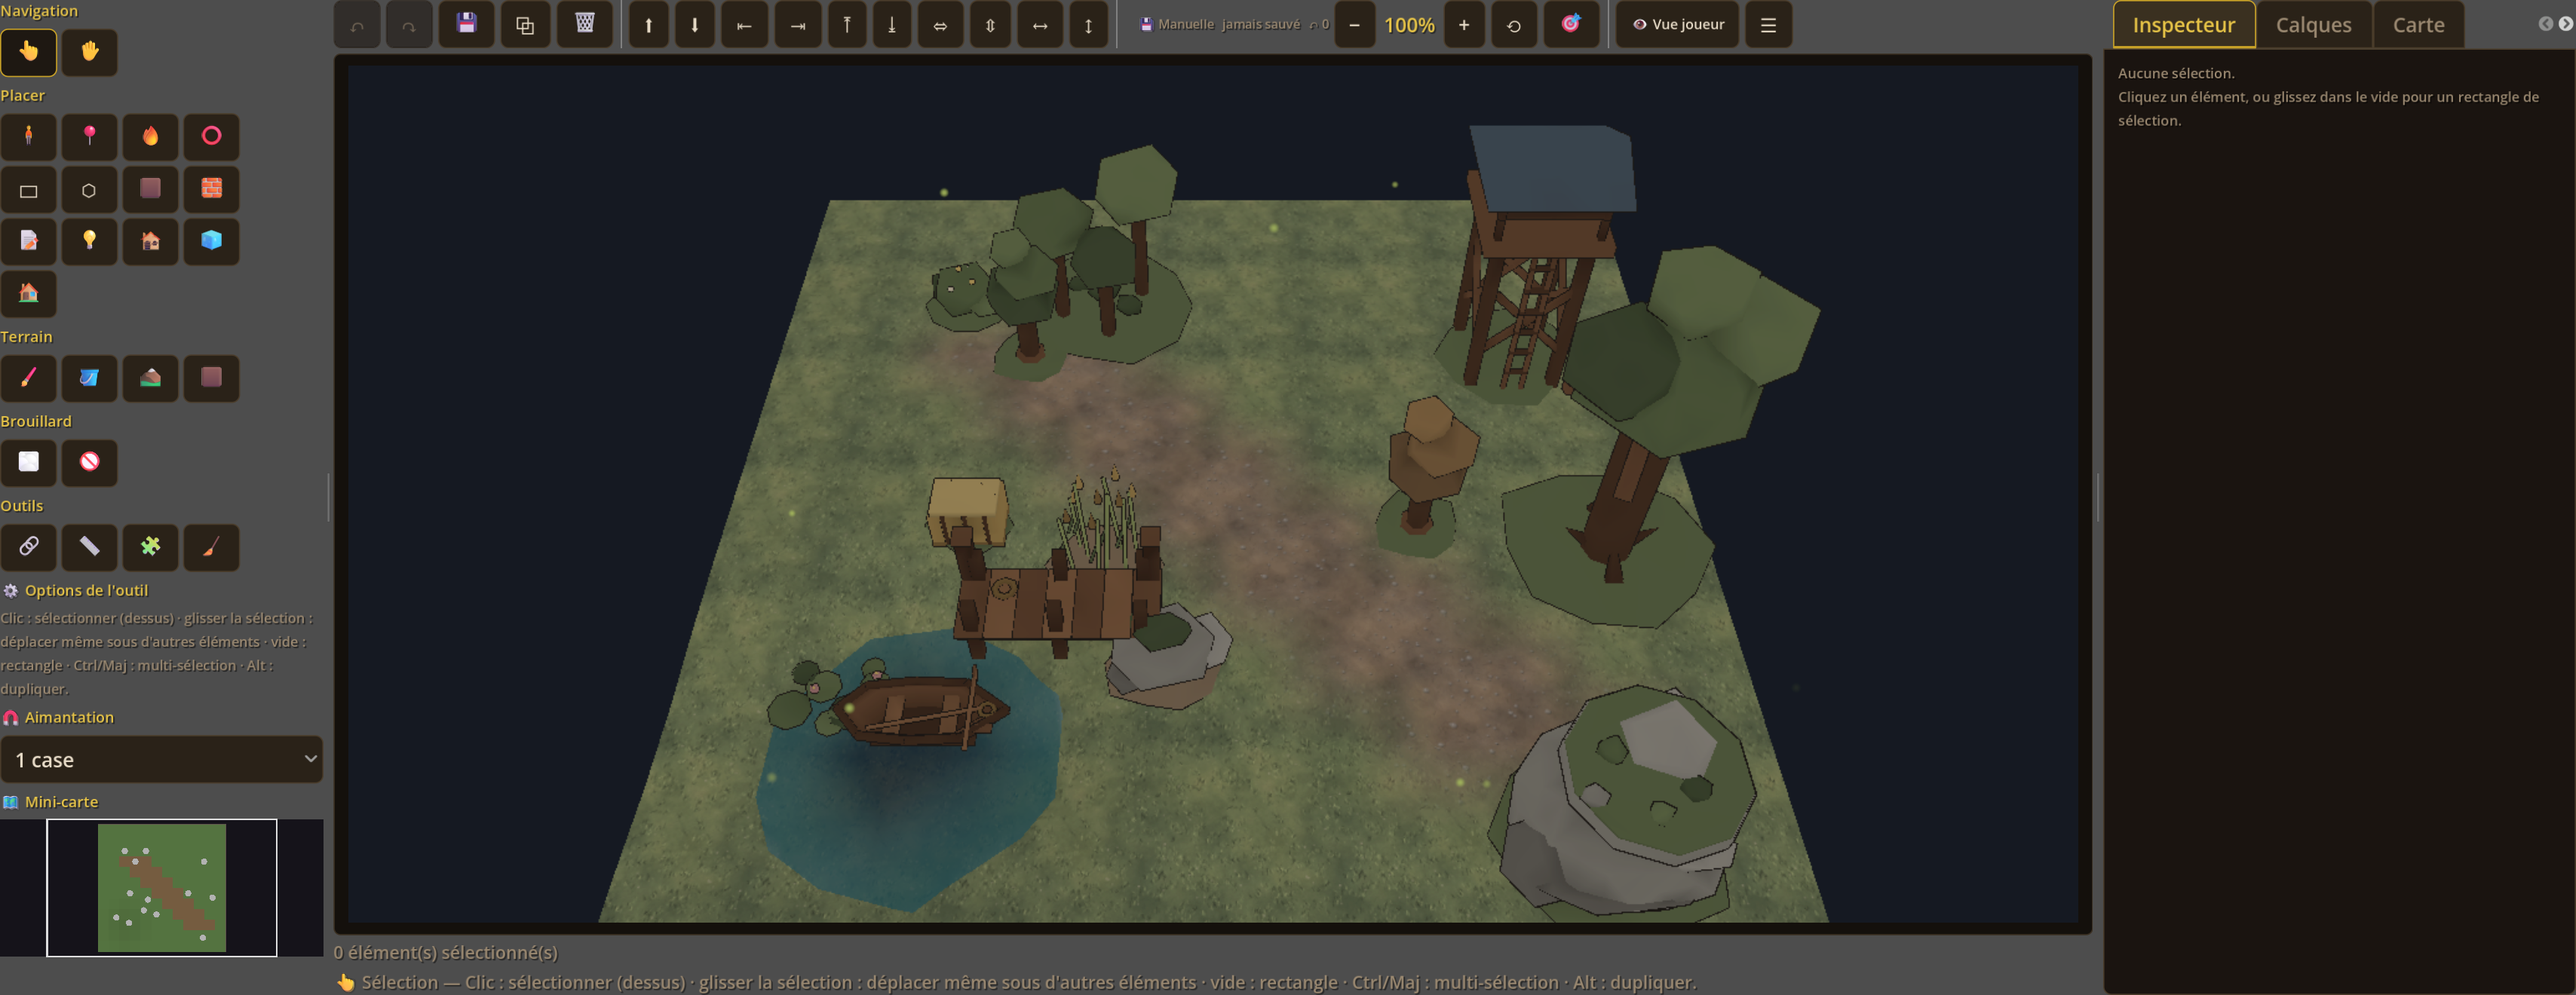
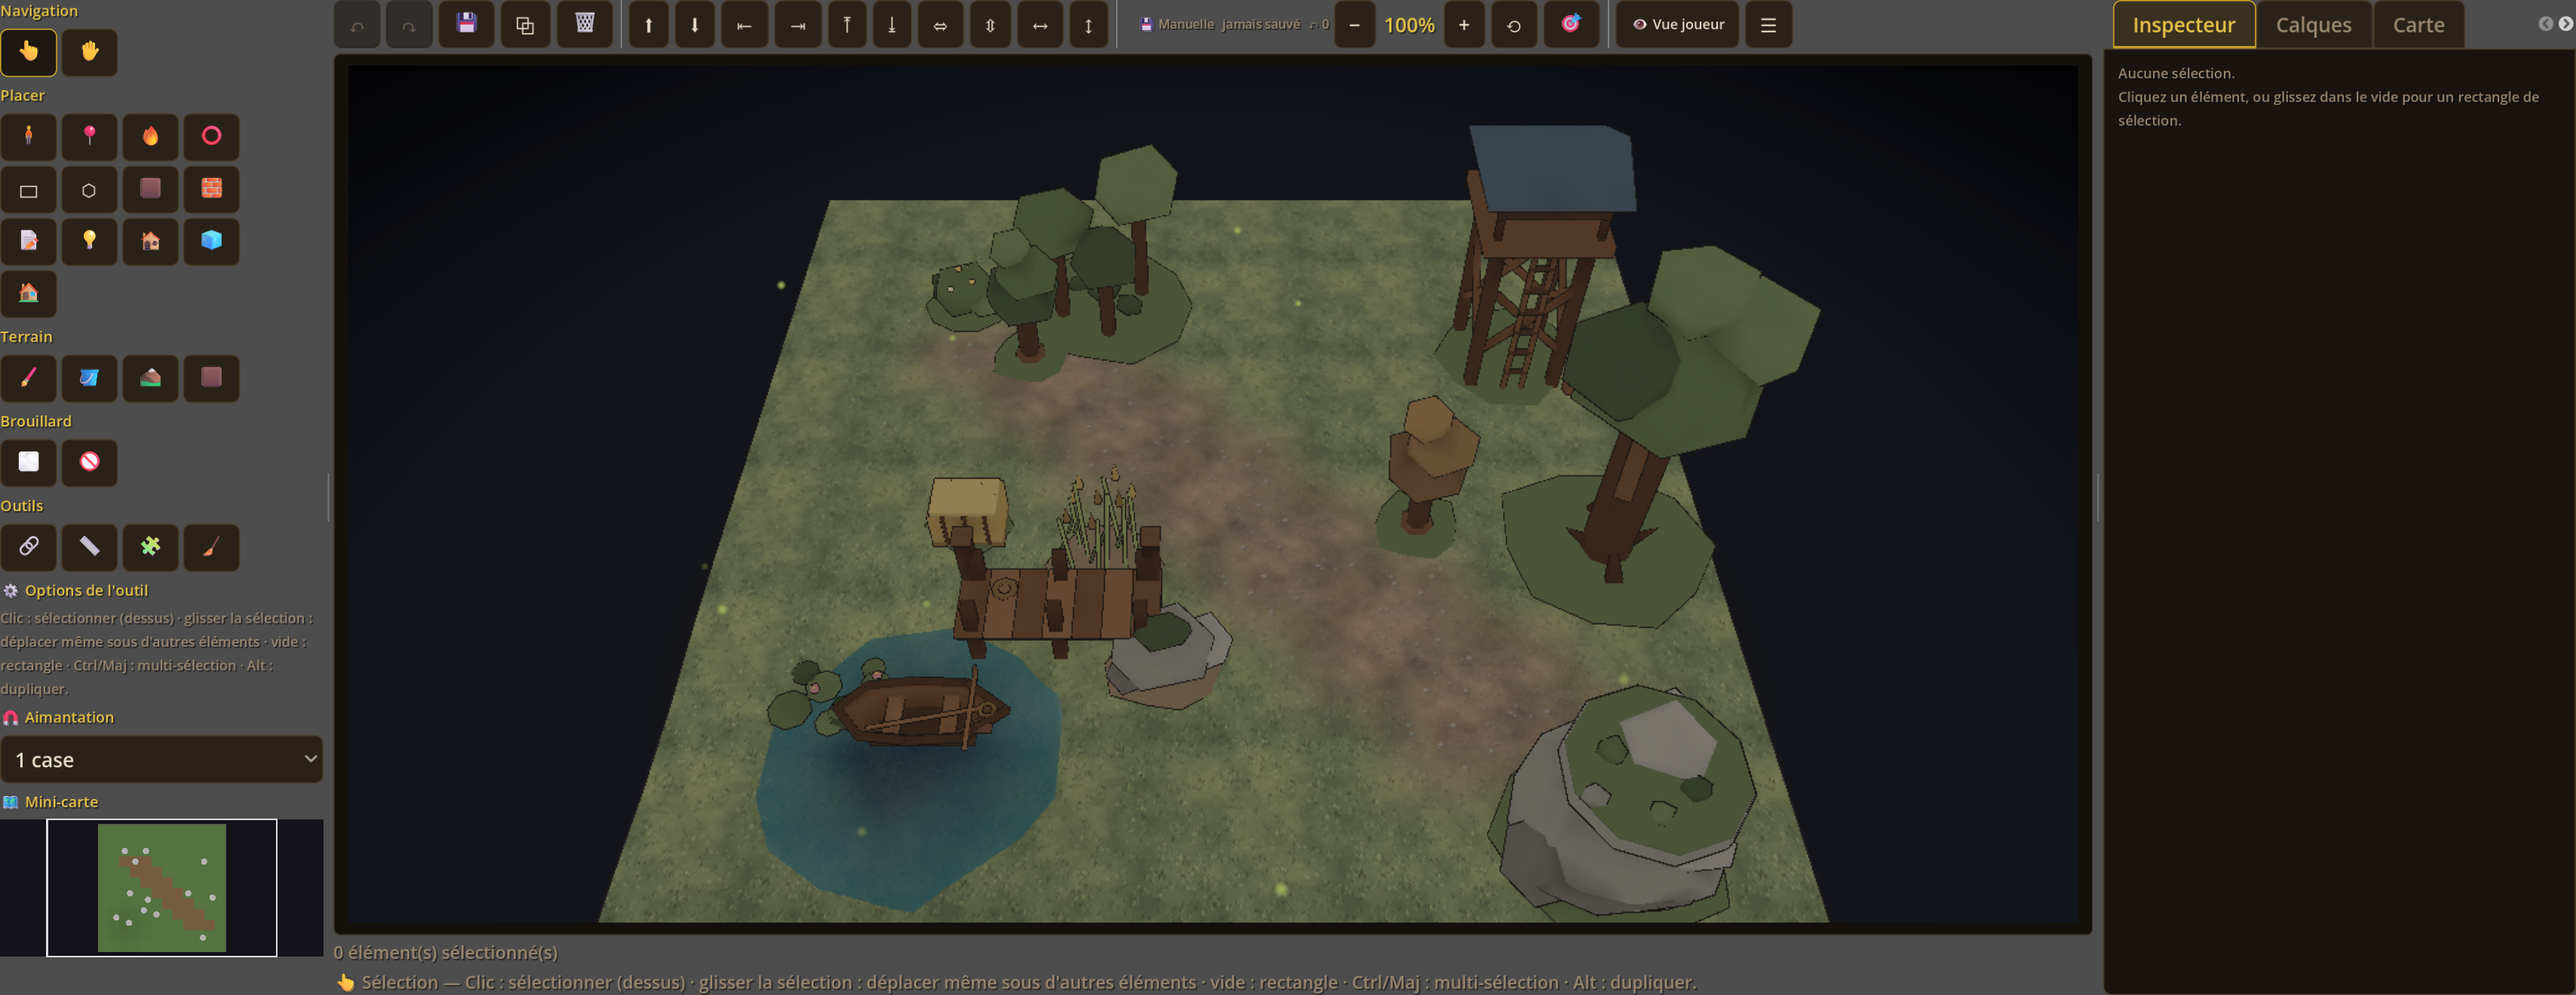
feat(carte 2.5d): ambiances meteo pluie et neige
- MapAmbientFx3D: rain (gouttes etirees rapides) et snow (flocons lents avec turbulence), nuit teintee
- éditeur Carte -> Ambiance: entrees Pluie et Neige ; ruines de la demo sous la pluie
- test map_ambient_fx_test etendu ; captures et docs a jour

Changed region(s): [[0.1241, 0.0621, 0.2172, 0.1553], [0.7447, 0.0621, 0.8068, 0.1553]]

diff --git a/docs/CARTE_25D.md b/docs/CARTE_25D.md
@@ -68,7 +68,7 @@ Le socle est donc **déjà à 70 %** de la cible : il manque principalement le *
 | **M5** | Démo | une carte village 2.5D mêlant sol peint, props 2D et objets 3D, livrée comme carte de démo et scène de test éditeur | capture + smoke |
 | **M6** | **Adaptation au terrain** | relief peint par cases (hauteur), objets 3D posés au sol réel : base sur la hauteur du terrain et inclinaison selon la pente (façon Rust / Fallout 76), ombre de contact qui suit | test relief + capture |
 
-**État au 31 octobre** : **M1→M4 livrés** — type `mesh`, outil éditeur, import GLB utilisateur, style **Carte 2.5D par défaut**, pipeline Blender. **M6 livré** : relief par cases, vrai sol 3D simple (heightfield), **jupe de falaise** sur le pourtour des cartes (effet plateau/îlot façon Dofus), **fond de plateau dégradé** derrière la carte, **peinture de matières du sol** (herbe / terre / pierre, outil `Y`, mélange doux), **plans d'eau animés** (niveau d'eau dans l'onglet Carte → étangs/lacs avec profondeur et écume), **ambiances animées** (lucioles, poussière, feuilles ; réglage Carte → Ambiance) et objets adaptés au sol. **Monde de zones (Dofus)** : `WorldZones`, **onglet Monde**, **transitions de session**, **carte du monde en session (M)** avec découverte et voyage rapide. **Art v2→v7** : **80 objets 3D** (villages variés : chapelle, forge, grange, écurie, maison à étage, manoir, tour de guet, marché couvert ; intérieurs taverne/donjon ; décors ; **10 figurines de personnages et créatures** ; environnement : falaise, arbre majestueux, bosquet, haie, roseaux, ponton, barque, nénuphars, bannière, clôture, tas de bois ; **modules de toits et façades** : 2 pentes, croupe, appentis, clocheton, chaume, cheminée, colombage, porte, fenêtre, balcon, escalier, auvent), 3 textures de sol seamless, éclairage 2.5D, lueur des lanternes. **Démo** : **7 zones reliées** (village, place, forêt, taverne, donjon nocturne, camp des bûcherons, ruines) avec chemins peints, intérieurs meublés, PNJ, étang en forêt et ambiances animées. **Tokens** : en carte 2.5D, les membres sans portrait sont rendus en **figurines 3D choisies par classe** (aventurier, archère, mage, voleuse, prêtresse, garde, marchand, villageoise + gobelin/squelette) avec socle coloré, ombre et sélection. Reste : passe de qualité artistique finale (toits, transitions). Voir [MONDE_ZONES.md](./MONDE_ZONES.md). Captures : [`carte_25d_editeur.png`](./screenshots/carte_25d_editeur.png), [`carte_25d_monde.png`](./screenshots/carte_25d_monde.png), [`carte_25d_mesh_demo.png`](./screenshots/carte_25d_mesh_demo.png), [`carte_25d_etang.png`](./screenshots/carte_25d_etang.png), [`carte_25d_falaise.png`](./screenshots/carte_25d_falaise.png), [`carte_25d_taverne.png`](./screenshots/carte_25d_taverne.png), [`carte_25d_donjon.png`](./screenshots/carte_25d_donjon.png), [`carte_25d_figurines.png`](./screenshots/carte_25d_figurines.png), [`session_carte_monde.png`](./screenshots/session_carte_monde.png).
+**État au 31 octobre** : **M1→M4 livrés** — type `mesh`, outil éditeur, import GLB utilisateur, style **Carte 2.5D par défaut**, pipeline Blender. **M6 livré** : relief par cases, vrai sol 3D simple (heightfield), **jupe de falaise** sur le pourtour des cartes (effet plateau/îlot façon Dofus), **fond de plateau dégradé** derrière la carte, **peinture de matières du sol** (herbe / terre / pierre, outil `Y`, mélange doux), **plans d'eau animés** (niveau d'eau dans l'onglet Carte → étangs/lacs avec profondeur et écume), **ambiances animées** (lucioles, poussière, feuilles, **pluie**, **neige** ; réglage Carte → Ambiance) et objets adaptés au sol. **Monde de zones (Dofus)** : `WorldZones`, **onglet Monde**, **transitions de session**, **carte du monde en session (M)** avec découverte et voyage rapide. **Art v2→v7** : **80 objets 3D** (villages variés : chapelle, forge, grange, écurie, maison à étage, manoir, tour de guet, marché couvert ; intérieurs taverne/donjon ; décors ; **10 figurines de personnages et créatures** ; environnement : falaise, arbre majestueux, bosquet, haie, roseaux, ponton, barque, nénuphars, bannière, clôture, tas de bois ; **modules de toits et façades** : 2 pentes, croupe, appentis, clocheton, chaume, cheminée, colombage, porte, fenêtre, balcon, escalier, auvent), 3 textures de sol seamless, éclairage 2.5D, lueur des lanternes. **Démo** : **7 zones reliées** (village, place, forêt, taverne, donjon nocturne, camp des bûcherons, ruines) avec chemins peints, intérieurs meublés, PNJ, étang en forêt et ambiances animées. **Tokens** : en carte 2.5D, les membres sans portrait sont rendus en **figurines 3D choisies par classe** (aventurier, archère, mage, voleuse, prêtresse, garde, marchand, villageoise + gobelin/squelette) avec socle coloré, ombre et sélection. Reste : passe de qualité artistique finale (toits, transitions). Voir [MONDE_ZONES.md](./MONDE_ZONES.md). Captures : [`carte_25d_editeur.png`](./screenshots/carte_25d_editeur.png), [`carte_25d_monde.png`](./screenshots/carte_25d_monde.png), [`carte_25d_mesh_demo.png`](./screenshots/carte_25d_mesh_demo.png), [`carte_25d_etang.png`](./screenshots/carte_25d_etang.png), [`carte_25d_falaise.png`](./screenshots/carte_25d_falaise.png), [`carte_25d_taverne.png`](./screenshots/carte_25d_taverne.png), [`carte_25d_donjon.png`](./screenshots/carte_25d_donjon.png), [`carte_25d_figurines.png`](./screenshots/carte_25d_figurines.png), [`session_carte_monde.png`](./screenshots/session_carte_monde.png).
 
 Tester dans l'éditeur :
 

diff --git a/docs/MAP_EDITOR.md b/docs/MAP_EDITOR.md
@@ -376,8 +376,8 @@ Onglet **Carte** :
   lac, avec rendu translucide animé, profondeur et écume de rive (mode Terrain 3D
   uniquement).
 - **Ambiance** : aucune, **lucioles** (étang / forêt), **poussière** (intérieur /
-  donjon) ou **feuilles qui tombent** — particules animées légères, retirées en
-  mode Fond illustré.
+  donjon), **feuilles qui tombent**, **pluie** ou **neige** — particules animées
+  légères, retirées en mode Fond illustré.
 - **Style de rendu** : **Diorama 2.5D** (défaut — fond peint + découpes) ou
   **VTT 3D** (battlemap tactique avec ombres et murs volumétriques).
 - **Dimensions** : redimensionnement non destructif — le terrain existant est

diff --git a/docs/GUIDE_CARTE_25D.md b/docs/GUIDE_CARTE_25D.md
@@ -44,7 +44,7 @@ Onglet **Carte** :
 - **Type de sol** : *Terrain 3D* (heightfield) ou *Fond illustré* (plat).
 - **Eau (niveau)** : `-1` = aucune eau ; sinon hauteur du plan d'eau en cases.
   Creuse d'abord avec **⛰ Relief (U)**, puis règle le niveau.
-- **Ambiance** : lucioles, poussière, feuilles (particules animées).
+- **Ambiance** : lucioles, poussière, feuilles, pluie ou neige (particules animées).
 - **Style de rendu** : Carte 2.5D (défaut), Diorama, VTT 3D, Hybride DD2.
 
 Outils terrain :
